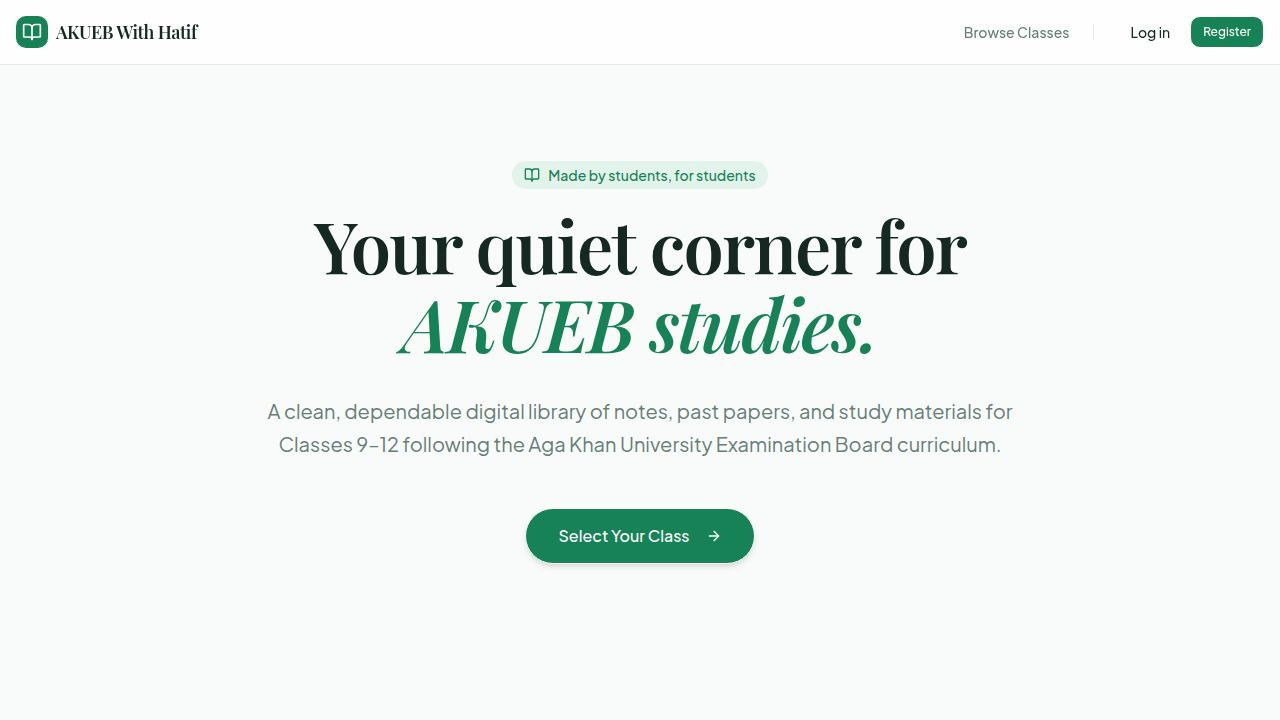
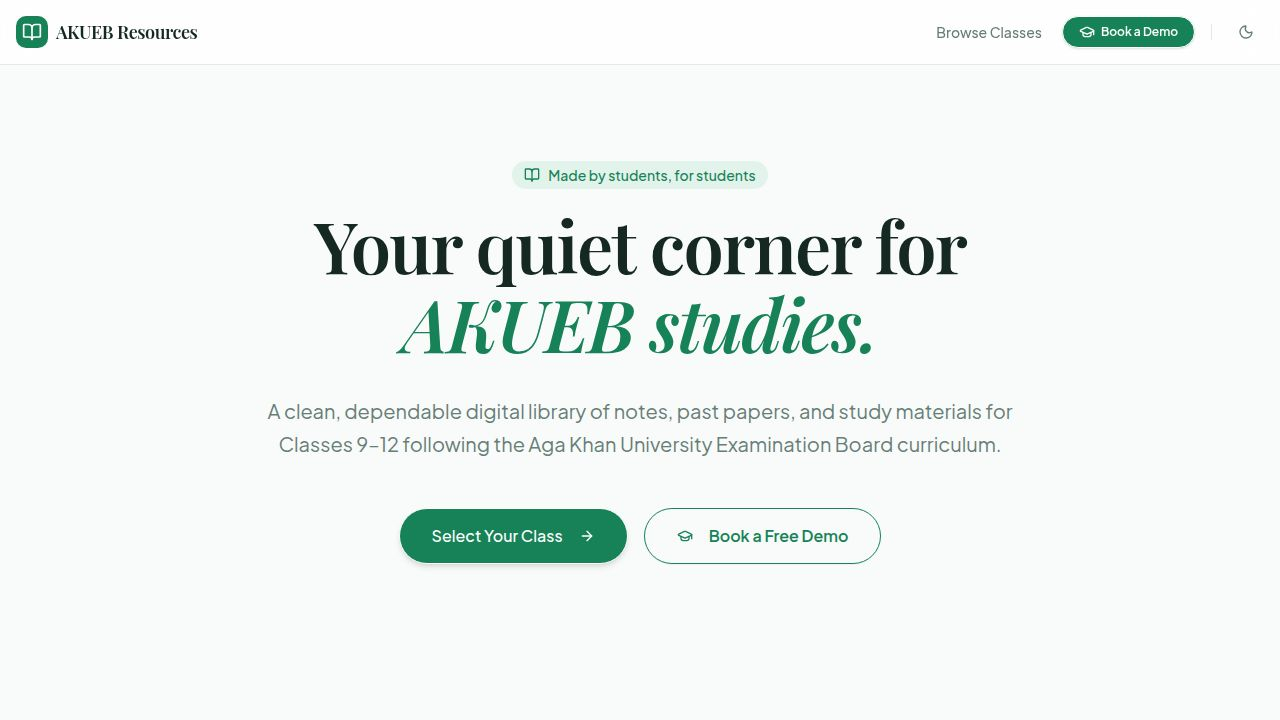
Remove user login and registration functionality from the website
Remove AuthProvider, Login/Register routes and UI components, and related context imports from App.tsx and Navbar.tsx.

Replit-Commit-Author: Agent
Replit-Commit-Session-Id: d0acefc8-ff86-4d98-b0f1-152505568bc4
Replit-Commit-Checkpoint-Type: full_checkpoint
Replit-Commit-Event-Id: c89e35e7-48dc-4c6e-838e-6a41c0b219bf
Replit-Commit-Screenshot-Url: https://storage.googleapis.com/screenshot-production-us-central1/19445f1e-5deb-41d0-b68a-6af08367026b/d0acefc8-ff86-4d98-b0f1-152505568bc4/qsdJdP4
Replit-Helium-Checkpoint-Created: true

Changed region(s): [[0.3125, 0.7028, 0.6875, 0.7944], [0.7188, 0.0, 1.0, 0.0917], [0.0938, 0.0306, 0.1562, 0.0611]]

diff --git a/artifacts/akueb-help/src/components/layout/Navbar.tsx b/artifacts/akueb-help/src/components/layout/Navbar.tsx
@@ -1,22 +1,12 @@
 import { Link } from "wouter";
-import { BookOpen, LogOut, User as UserIcon, Moon, Sun, GraduationCap } from "lucide-react";
-import { useAuth } from "@/contexts/AuthContext";
+import { BookOpen, Moon, Sun, GraduationCap } from "lucide-react";
 import { useTheme } from "@/contexts/ThemeContext";
 import { useAdmin } from "@/contexts/AdminContext";
 import { Button } from "@/components/ui/button";
-import { useLogout } from "@workspace/api-client-react";
 
 export function Navbar() {
-  const { user, logout } = useAuth();
   const { theme, toggleTheme } = useTheme();
   const { isAdmin } = useAdmin();
-  const logoutMutation = useLogout({
-    mutation: {
-      onSuccess: () => {
-        logout();
-      }
-    }
-  });
 
   return (
     <nav className="border-b border-border bg-card/80 backdrop-blur-md sticky top-0 z-40">
@@ -56,36 +46,6 @@ export function Navbar() {
           <Button variant="ghost" size="icon" onClick={toggleTheme} className="text-muted-foreground hover:text-foreground">
             {theme === "light" ? <Moon className="h-5 w-5" /> : <Sun className="h-5 w-5" />}
           </Button>
-
-          {user ? (
-            <div className="flex items-center gap-3">
-              <div className="flex items-center gap-2 text-sm font-medium text-foreground bg-accent/50 px-3 py-1.5 rounded-full">
-                <UserIcon className="h-4 w-4 text-primary" />
-                {user.name}
-              </div>
-              <Button
-                variant="ghost"
-                size="sm"
-                onClick={() => logoutMutation.mutate()}
-                disabled={logoutMutation.isPending}
-                className="text-muted-foreground hover:text-foreground"
-              >
-                <LogOut className="h-4 w-4 mr-2" />
-                Logout
-              </Button>
-            </div>
-          ) : (
-            <div className="flex items-center gap-2">
-              <Link href="/login" className="text-sm font-medium text-foreground hover:text-primary transition-colors px-3 py-2">
-                Log in
-              </Link>
-              <Link href="/register">
-                <Button size="sm" variant="outline" className="font-medium">
-                  Register
-                </Button>
-              </Link>
-            </div>
-          )}
         </div>
       </div>
     </nav>

diff --git a/artifacts/akueb-help/src/App.tsx b/artifacts/akueb-help/src/App.tsx
@@ -3,7 +3,6 @@ import { QueryClient, QueryClientProvider } from "@tanstack/react-query";
 import { Toaster } from "@/components/ui/toaster";
 import { TooltipProvider } from "@/components/ui/tooltip";
 import NotFound from "@/pages/not-found";
-import { AuthProvider } from "@/contexts/AuthContext";
 import { ThemeProvider } from "@/contexts/ThemeContext";
 import { AdminProvider } from "@/contexts/AdminContext";
 import { Navbar } from "@/components/layout/Navbar";
@@ -14,8 +13,6 @@ import Home from "@/pages/Home";
 import Classes from "@/pages/Classes";
 import Subjects from "@/pages/Subjects";
 import Materials from "@/pages/Materials";
-import Login from "@/pages/Login";
-import Register from "@/pages/Register";
 import AdminLogin from "@/pages/AdminLogin";
 import Legal from "@/pages/Legal";
 import Admission from "@/pages/Admission";
@@ -34,8 +31,6 @@ function Router() {
           <Route path="/classes" component={Classes} />
           <Route path="/classes/:classId/subjects" component={Subjects} />
           <Route path="/subjects/:subjectId/materials" component={Materials} />
-          <Route path="/login" component={Login} />
-          <Route path="/register" component={Register} />
           <Route path="/admin/login" component={AdminLogin} />
           <Route path="/admin/admissions" component={AdminAdmissions} />
           <Route path="/legal" component={Legal} />
@@ -53,14 +48,12 @@ function App() {
     <QueryClientProvider client={queryClient}>
       <ThemeProvider>
         <AdminProvider>
-          <AuthProvider>
-            <TooltipProvider>
-              <WouterRouter base={import.meta.env.BASE_URL.replace(/\/$/, "")}>
-                <Router />
-              </WouterRouter>
-              <Toaster />
-            </TooltipProvider>
-          </AuthProvider>
+          <TooltipProvider>
+            <WouterRouter base={import.meta.env.BASE_URL.replace(/\/$/, "")}>
+              <Router />
+            </WouterRouter>
+            <Toaster />
+          </TooltipProvider>
         </AdminProvider>
       </ThemeProvider>
     </QueryClientProvider>